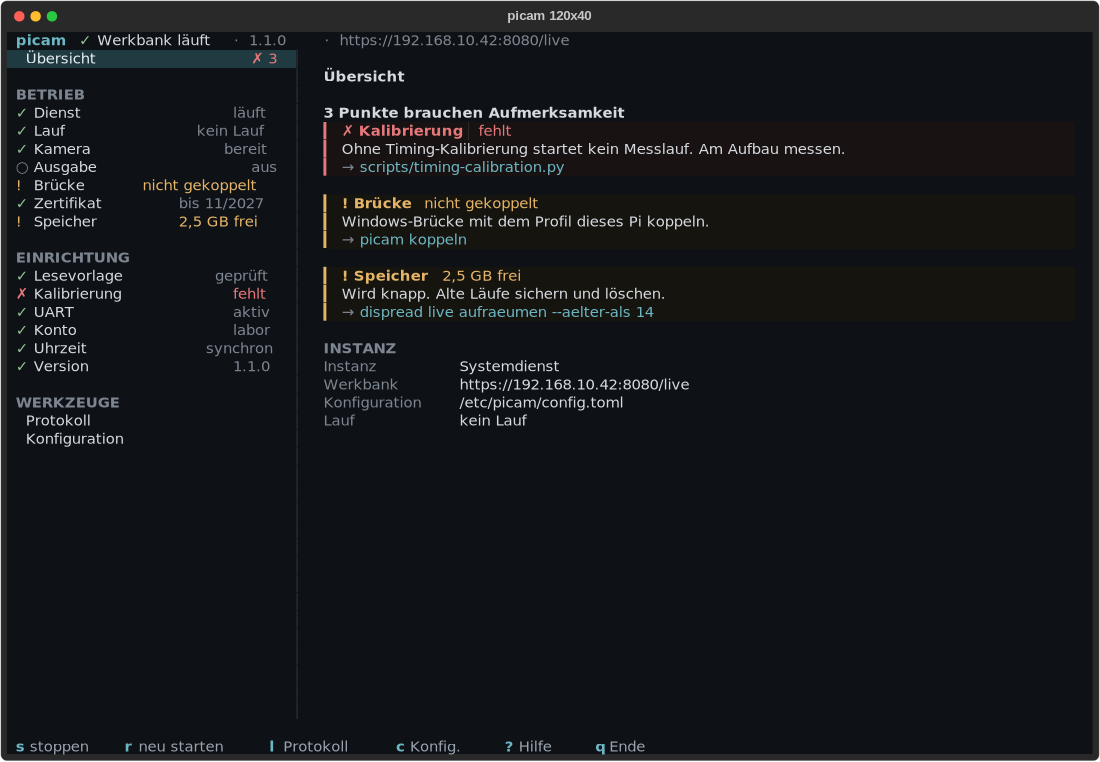
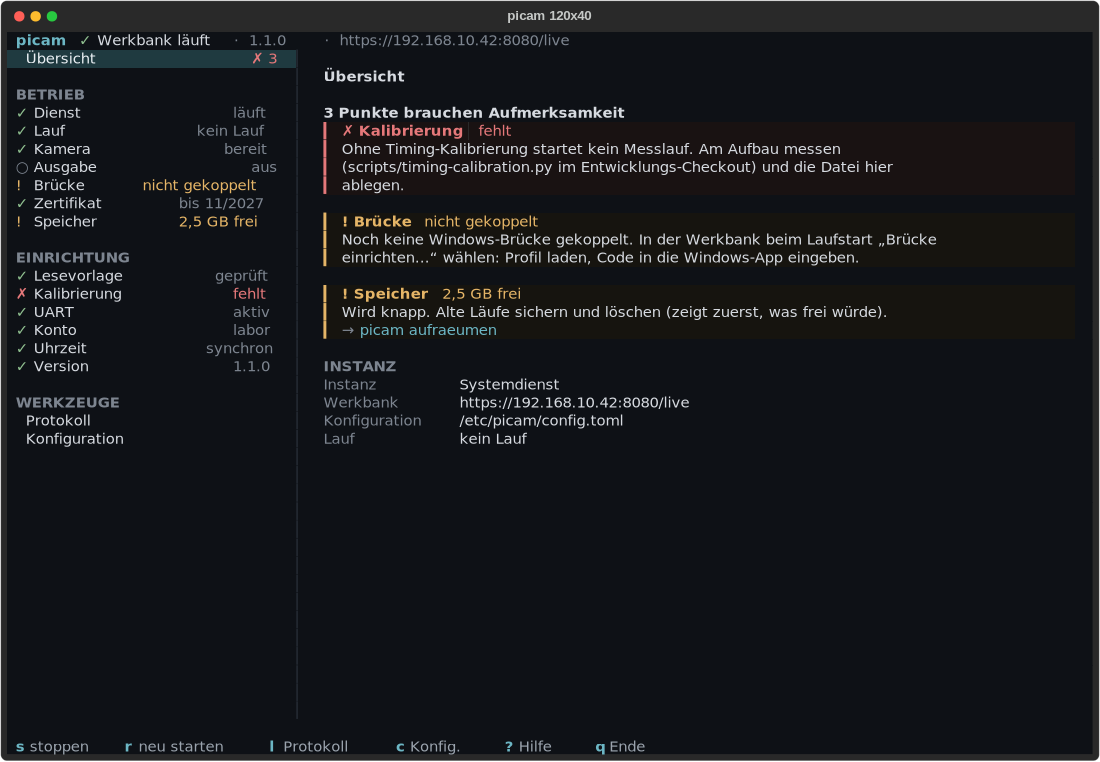
picam-Tour mit echten Hinweistexten neu erzeugt, Erzeugungsskript abgelegt; ASCII-Pfeil

Changed region(s): [[0.2782, 0.2113, 0.8655, 0.6037]]

diff --git a/docs/quellen/picam-tour-2026-11-20/capture.py b/docs/quellen/picam-tour-2026-11-20/capture.py
@@ -1,0 +1,103 @@
+"""Render picam TUI with fake data at sizes, export SVG."""
+import asyncio, sys, time
+from pathlib import Path
+from dispread.admin import probes
+from dispread.admin.instance import Instance
+from dispread.admin.service import LogLine
+from dispread.admin.tui import PicamApp
+
+OUT = Path(sys.argv[1])
+F = probes.Fact
+def facts(state):
+    d = {
+     'dienst': F('dienst','Dienst',probes.OK,'läuft',[('Unit','picam-werkbank.service'),('Art','Systemdienst'),('Autostart','ja'),('Seit','Do 2026-11-19 21:31:39 CET'),('PID','1394956')]),
+     'lauf': F('lauf','Lauf',probes.OK,'kein Lauf',[('Zustand','kein Lauf')]),
+     'kamera': F('kamera','Kamera',probes.OK,'bereit',[('Gerät','/dev/video0'),('USB','046d:0893'),('Anschluss','USB 3'),('Format','1920×1080 YUYV')]),
+     'ausgabe': F('ausgabe','Ausgabe',probes.OFF,'aus',[('Weg','aus')]),
+     'bruecke': F('bruecke','Brücke',probes.WARN,'nicht gekoppelt',[('Pi-ID','565e3468…'),('Identität','vorhanden'),('Kopplungen','0')],hint='Noch keine Windows-Brücke gekoppelt. In der Werkbank beim Laufstart „Brücke einrichten…“ wählen: Profil laden, Code in die Windows-App eingeben.'),
+     'zertifikat': F('zertifikat','Zertifikat',probes.OK,'bis 11/2027',[('Adresse','https://192.168.10.42:8080/live'),('Gültig bis','06.11.2027'),('Namen','192.168.10.42')]),
+     'speicher': F('speicher','Speicher',probes.WARN,'2,5 GB frei',[('Frei','2,5 GB'),('Reserve','2,0 GB'),('Laufdaten','/var/lib/picam/live')],hint='Wird knapp. Alte Läufe sichern und löschen (zeigt zuerst, was frei würde).',command='picam aufraeumen'),
+     'vorlage': F('vorlage','Lesevorlage',probes.OK,'geprüft',[('Datei','/opt/picam/current/src/dispread/data/templates-stufe2c-2026-09-30.json'),('SHA-256','stimmt')]),
+     'kalibrierung': F('kalibrierung','Kalibrierung',probes.FAIL,'fehlt',[('Datei','/var/lib/picam/calibration/timing-streamcam.json')],hint='Ohne Timing-Kalibrierung startet kein Messlauf. Am Aufbau messen (scripts/timing-calibration.py im Entwicklungs-Checkout) und die Datei hier ablegen.'),
+     'uart': F('uart','UART',probes.OK,'aktiv',[('Gerät','/dev/ttyAMA0 vorhanden')]),
+     'konto': F('konto','Konto',probes.OK,'labor',[('Konto','labor'),('Gruppen','dialout, video')]),
+     'uhr': F('uhr','Uhrzeit',probes.OK,'synchron',[('NTP','synchronisiert')]),
+     'version': F('version','Version',probes.OK,'1.1.0',[('Release','1.1.0'),('Commit','9318ef6'),('Ort','/opt/picam/releases/1.1.0'),('Vorige','1.0.0')],hint='Update: picam update --source picam-<version>.tar.gz · Rückweg: picam update --rollback'),
+    }
+    if state == 'run':
+        d['lauf'] = F('lauf','Lauf',probes.OK,'Lauf aktiv',[('Zustand','Lauf aktiv'),('Sitzung','20261120T091502Z'),('Ausgabe','Netzwerk (Brücke)')],hint='Dienstaktionen sind während des Laufs gesperrt.')
+        d['ausgabe'] = F('ausgabe','Ausgabe',probes.OK,'Netzwerk (Brücke)',[('Weg','Netzwerk (Brücke)'),('Brücke','verbunden')])
+        d['bruecke'] = F('bruecke','Brücke',probes.OK,'verbunden',[('Kopplungen','1')])
+        d['kalibrierung'] = F('kalibrierung','Kalibrierung',probes.OK,'vorhanden',[])
+    if state == 'down':
+        d['dienst'] = F('dienst','Dienst',probes.FAIL,'ausgefallen',[('Unit','picam-werkbank.service'),('Ergebnis','exit-code')],hint='Protokoll ansehen, Ursache beheben, dann neu starten.',command='picam logs')
+        for k in ('lauf','ausgabe'): d[k]=F(k,d[k].label,probes.OFF,'–',[('Grund','Dienst läuft nicht')])
+        d['zertifikat']=F('zertifikat','Zertifikat',probes.OFF,'Dienst aus',[])
+        d['bruecke']=F('bruecke','Brücke',probes.OFF,'–',[])
+    return d
+
+def collector(state):
+    def collect(instance, include_setup=True, **kw):
+        live = {'state': 'running' if state=='run' else 'idle', 'diagnose_kopie': False}
+        return probes.Snapshot(instance, facts(state), None if state=='down' else live, time.time())
+    return collect
+
+INST = Instance(kind='system', unit='picam-werkbank.service', scope='system', config='/etc/picam/config.toml',
+                host='192.168.10.42', port=8080, socket='/run/picam/control.sock', pam_user='labor',
+                data='/var/lib/picam/workbench', live_data='/var/lib/picam/live', bridge_name='Labor-Pi 2',
+                bridge_discovery=False, root='/opt/picam/releases/1.1.0')
+
+def journal():
+    rows = [('21:31:39','info','Werkbank: https://192.168.10.42:8080 | Anmeldung: labor'),('21:32:03','info','Kamerastart (serverstart)'),
+            ('21:32:03','info','Kamera: erstes Bild nach 0.60 s (serverstart)'),('21:40:12','warnung','Brücke: Verbindung getrennt (Zeitüberschreitung)'),
+            ('21:40:15','info','Brücke verbunden (Netzwerk, LABOR-PC-1)'),('22:05:44','fehler','Live-Einrichtung: Rahmen verdeckt'),('22:06:10','info','Einrichtung bestätigt')]
+    return [LogLine(*r) for r in rows]
+
+async def shoot(name, size, state='idle', keys=()):
+    app = PicamApp(INST, collect=collector(state), journal_source=journal, auto_refresh=False)
+    async with app.run_test(size=size) as pilot:
+        await pilot.pause(0.3)
+        for k in keys:
+            await pilot.press(k)
+            await pilot.pause(0.15)
+        await pilot.pause(0.3)
+        (OUT / f'{name}.svg').write_text(app.export_screenshot(title=f'picam {size[0]}x{size[1]}'))
+
+async def main():
+    which = sys.argv[2:] or None
+    cases = [
+        ('01-uebersicht-120x40', (120,40), 'idle', ()),
+        ('02-uebersicht-80x24', (80,24), 'idle', ()),
+        ('03-dienst-80x24', (80,24), 'idle', ('down',)),
+        ('04-neustart-bestaetigen-80x24', (80,24), 'idle', ('r',)),
+        ('05-lauf-aktiv-gesperrt-80x24', (80,24), 'run', ('down','down')),
+        ('06-dienst-ausgefallen-80x24', (80,24), 'down', ()),
+        ('07-kalibrierung-fehlt-80x24', (80,24), 'idle', ('down',)*9),
+        ('08-version-update-80x24', (80,24), 'idle', ('down',)*13),
+        ('09-update-dialog-80x24', (80,24), 'idle', ('down',)*13 + ('u',)),
+        ('10-protokoll-80x24', (80,24), 'idle', ('l',)),
+        ('11-konfiguration-80x24', (80,24), 'idle', ('c',)),
+        ('12-hilfe-80x24', (80,24), 'idle', ('question_mark',)),
+        ('13-schmal-liste-60x20', (60,20), 'idle', ()),
+        ('14-schmal-bereich-60x20', (60,20), 'idle', ('down','down','enter')),
+        ('15-zu-klein-40x12', (40,12), 'idle', ()),
+    ]
+    old_cases = [
+        ('home-120x40', (120,40), 'idle', ()),
+        ('home-80x24', (80,24), 'idle', ()),
+        ('dienst-80x24', (80,24), 'idle', ('down',)),
+        ('kalib-80x24', (80,24), 'idle', ('down',)*10),
+        ('run-80x24', (80,24), 'run', ('down',)*2),
+        ('down-80x24', (80,24), 'down', ()),
+        ('log-80x24', (80,24), 'idle', ('l',)),
+        ('config-80x24', (80,24), 'idle', ('c',)),
+        ('confirm-80x24', (80,24), 'idle', ('r',)),
+        ('help-80x24', (80,24), 'idle', ('question_mark',)),
+        ('narrow-60x20', (60,20), 'idle', ()),
+        ('narrow-open-60x20', (60,20), 'idle', ('down','down','down','down','down','down','enter')),
+        ('small-40x12', (40,12), 'idle', ()),
+    ]
+    for name, size, state, keys in cases:
+        if which and name not in which: continue
+        await shoot(name, size, state, keys)
+asyncio.run(main())

diff --git a/src/dispread/admin/tui.py b/src/dispread/admin/tui.py
@@ -279,7 +279,7 @@ def hint_block(fact: probes.Fact) -> Text | None:
     if fact.command:
         if fact.hint:
             text.append('\n')
-        text.append('→ ', style=MUTED)
+        text.append('-> ' if ascii_mode() else '→ ', style=MUTED)
         text.append(fact.command, style=ACCENT)
     return text
 

diff --git a/docs/quellen/picam-tour-2026-11-20/README.md b/docs/quellen/picam-tour-2026-11-20/README.md
@@ -28,3 +28,6 @@ Gestaltung nach dem `tui-design`-Skill: eine Trennlinie zwischen Liste und
 Bereich, kein Außenrahmen; je Zustand ein Zeichen plus eine Farbe; Werte
 in der Liste nur farbig, wenn sie Handlungsbedarf zeigen; Hinweise als
 schmaler Balken links. Keine Messwerte, keine laufenden Zähler.
+
+Neu erzeugen: `PYTHONPATH=src ./.venv/bin/python docs/quellen/picam-tour-2026-11-20/capture.py AUSGABEORDNER [FALL …]`
+schreibt SVGs; PNGs daraus mit CairoSVG (eigene venv, nicht in der Projekt-venv).
